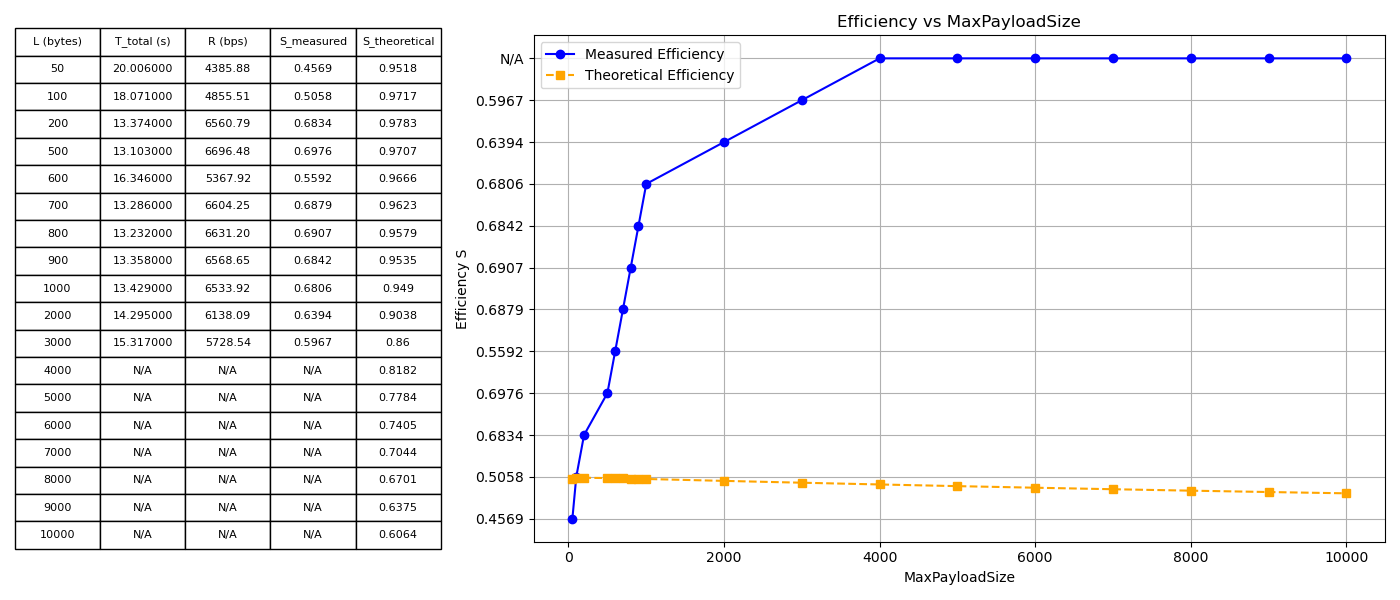
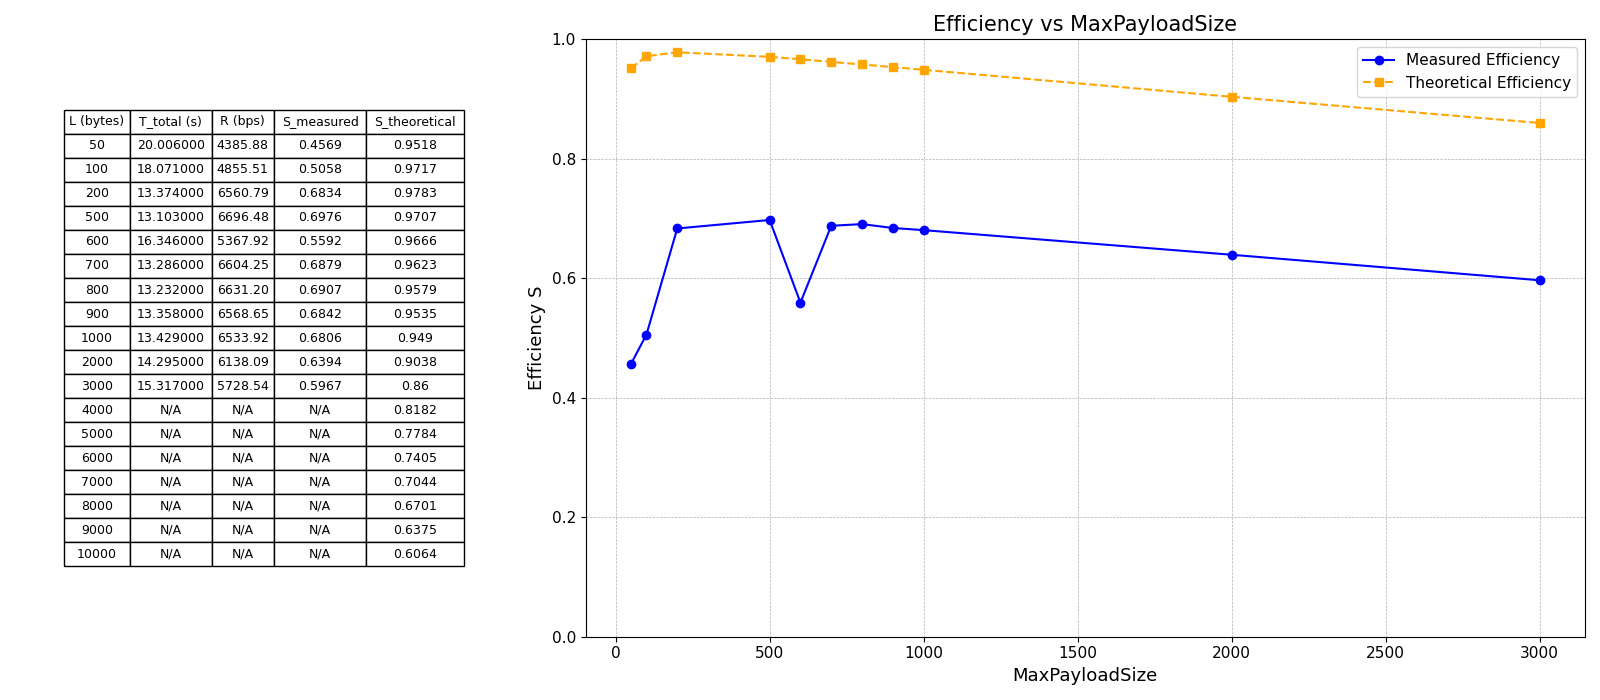
new graphs (correct)

diff --git a/lab1-code-25-26/docs/plot_efficiency_graphs.py b/lab1-code-25-26/docs/plot_efficiency_graphs.py
@@ -6,14 +6,31 @@ import pandas as pd
 
 def plot_efficiency_vs_variable(csv_path, variable_name, output_folder, output_name):
     df = pd.read_csv(csv_path, na_values=None, keep_default_na=False)
-    # Use Measured Efficiency S for y-axis
-    x = df[variable_name]
-    y_measured = df["Measured Efficiency S"]
-    y_theoretical = df["Theoretical Efficiency S_theoretical"]
+    # Use Measured Efficiency S for y-axis, but drop rows where either y value is NA or not a number
+    df_plot = df.copy()
+    # Convert to numeric, coerce errors to NaN
+    df_plot["Measured Efficiency S"] = pd.to_numeric(
+        df_plot["Measured Efficiency S"], errors="coerce"
+    )
+    df_plot["Theoretical Efficiency S_theoretical"] = pd.to_numeric(
+        df_plot["Theoretical Efficiency S_theoretical"], errors="coerce"
+    )
+    df_plot[variable_name] = pd.to_numeric(df_plot[variable_name], errors="coerce")
+    # Only keep rows where x and y values are not NaN
+    df_plot = df_plot.dropna(
+        subset=[
+            variable_name,
+            "Measured Efficiency S",
+            "Theoretical Efficiency S_theoretical",
+        ]
+    )
+    x = df_plot[variable_name]
+    y_measured = df_plot["Measured Efficiency S"]
+    y_theoretical = df_plot["Theoretical Efficiency S_theoretical"]
 
     # Create a figure with two columns: left for plot, right for table
     fig, (ax_table, ax_plot) = plt.subplots(
-        1, 2, figsize=(14, 6), gridspec_kw={"width_ratios": [1, 2]}
+        1, 2, figsize=(16, 7), gridspec_kw={"width_ratios": [1.2, 2.8]}
     )
 
     # Plot on the left
@@ -33,11 +50,16 @@ def plot_efficiency_vs_variable(csv_path, variable_name, output_folder, output_n
         color="orange",
         label="Theoretical Efficiency",
     )
-    ax_plot.set_xlabel(variable_name)
-    ax_plot.set_ylabel("Efficiency S")
-    ax_plot.set_title(f"Efficiency vs {variable_name}")
-    ax_plot.grid(True)
-    ax_plot.legend()
+    # Set y-axis from 0 to 1
+    ax_plot.set_ylim(0, 1)
+    ax_plot.set_xlabel(variable_name, fontsize=13)
+    ax_plot.set_ylabel("Efficiency S", fontsize=13)
+    ax_plot.set_title(f"Efficiency vs {variable_name}", fontsize=15)
+    ax_plot.grid(True, which="both", linestyle="--", linewidth=0.5)
+    ax_plot.legend(fontsize=11)
+    ax_plot.tick_params(axis="both", which="major", labelsize=11)
+    fig.subplots_adjust(wspace=0.25)
+    # Ensure y-axis is not inverted (should not be needed now)
 
     # Table on the right
     # Rename columns and remove 'Test Number' as requested
@@ -80,9 +102,11 @@ def plot_efficiency_vs_variable(csv_path, variable_name, output_folder, output_n
         cellLoc="center",
     )
     table.auto_set_font_size(False)
-    table.set_fontsize(8)
-    table.scale(1, 1.5)
+    table.set_fontsize(9)
+    table.scale(1.1, 1.3)
     ax_table.axis("off")
+    # Make sure table fits well
+    table.auto_set_column_width(col=list(range(len(df_table.columns))))
 
     plt.tight_layout()
     os.makedirs(output_folder, exist_ok=True)
